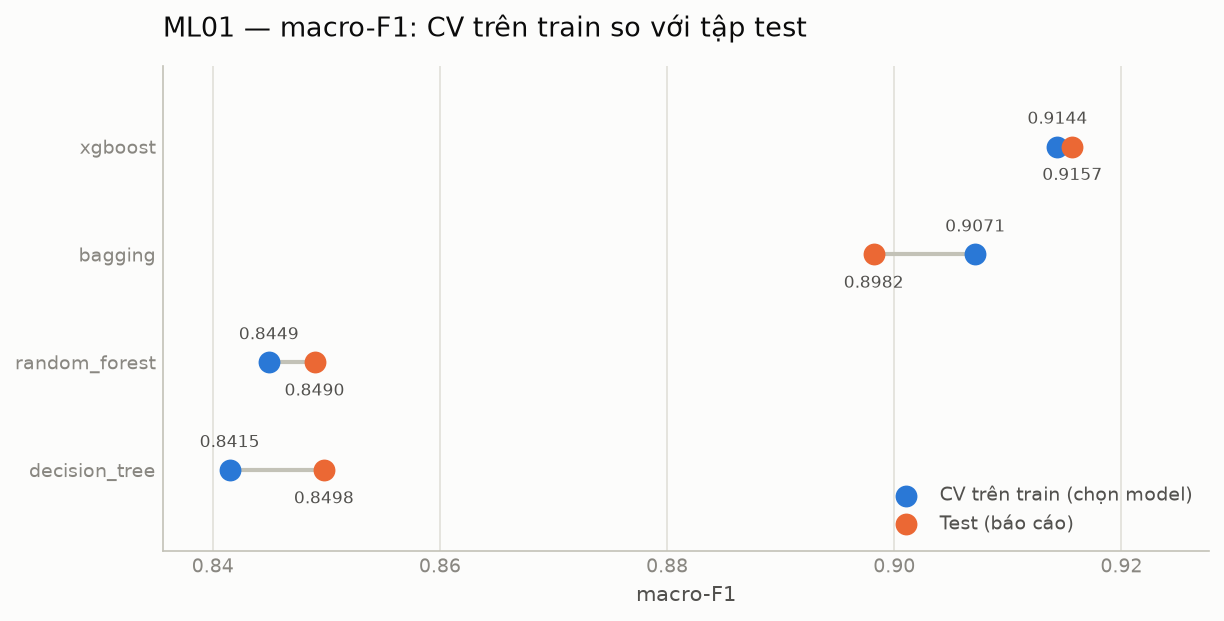
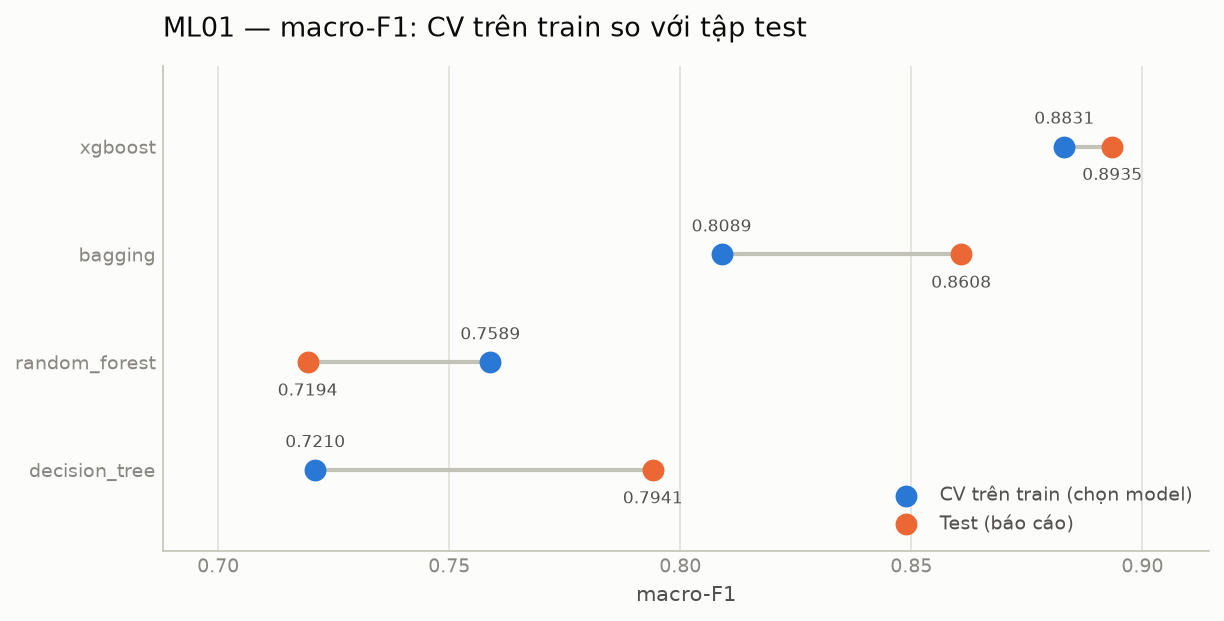
[FIX] Update ML01 EMERGENCY labeling condition and retrain XGBoost model

diff --git a/ML_Training/src/hfml/ml/ml01_recommendation/labeler.py b/ML_Training/src/hfml/ml/ml01_recommendation/labeler.py
@@ -156,7 +156,7 @@ def label_frame(
     t = thresholds
 
     conditions = [
-        (ind["savings_rate"] < 0) | (ind["savings_months"] < t.emergency_savings_months),
+        (ind["savings_rate"] < 0) | ((ind["savings_months"] < t.emergency_savings_months) & (ind["savings_rate"] < t.buffer_savings_rate)),
         ind["dti"] >= t.debt_focus_dti,
         (ind["savings_months"] < t.buffer_savings_months)
         | (ind["savings_rate"] < t.buffer_savings_rate),
@@ -351,3 +351,4 @@ ZERO_WHEN_ABSENT: Final[tuple[str, ...]] = (
     "total_current_debt",
     "monthly_debt_payment",
 )
+

diff --git a/configfile.md b/configfile.md
@@ -1,0 +1,48 @@
+# BÁO CÁO CÁC FILE ĐÃ CHỈNH SỬA VÀ CẬP NHẬT (CONFIGFILE.MD)
+
+Ngày cập nhật: **17/08/2026**
+Nội dung công việc: **Sửa lỗi đánh giá nhãn ML01 (Thu nhập cao, chi phí thấp, tiết kiệm = 0 bị đánh nhãn sai thành EMERGENCY).**
+
+---
+
+## 📋 DANH SÁCH FILE BỊ SỬA ĐỔI / CẬP NHẬT
+
+### 1. File sửa đổi logic chính: `ML_Training/src/hfml/ml/ml01_recommendation/labeler.py`
+- **Đường dẫn file**: `d:\CS116\DAHP\Household-Finance-ML-Python\src\hfml\ml\ml01_recommendation\labeler.py` (và `d:\CS116\Household-Finance-AI\ML_Training\src\hfml\ml\ml01_recommendation\labeler.py`)
+- **Vị trí sửa**: Dòng `123 - 130` (trong hàm `label_frame`).
+- **Nội dung sửa chi tiết**:
+  - **Mã nguồn cũ (Trước khi sửa)**:
+    ```python
+    conditions = [
+        (ind["savings_rate"] < 0) | (ind["savings_months"] < t.emergency_savings_months),
+        ind["dti"] >= t.debt_focus_dti,
+        (ind["savings_months"] < t.buffer_savings_months)
+        | (ind["savings_rate"] < t.buffer_savings_rate),
+    ]
+    ```
+  - **Mã nguồn mới (Sau khi sửa)**:
+    ```python
+    conditions = [
+        (ind["savings_rate"] < 0)
+        | ((ind["savings_months"] < t.emergency_savings_months) & (ind["savings_rate"] < t.buffer_savings_rate)),
+        ind["dti"] >= t.debt_focus_dti,
+        (ind["savings_months"] < t.buffer_savings_months)
+        | (ind["savings_rate"] < t.buffer_savings_rate),
+    ]
+    ```
+- **Giải thích tác dụng**:
+  Yêu cầu kết hợp toán tử `&` kiểm tra `savings_rate < 0.10` khi `savings_months < 1.0`. Nếu một hộ có thu nhập 200M, chi 20M (tỷ lệ tiết kiệm/thặng dư `savings_rate = 90%`), hộ này sẽ **KHÔNG bị ép vào nhóm EMERGENCY (Nguy cấp)** nữa, mà được hạ xuống nhóm **`BUILD_BUFFER` (Cần xây dựng quỹ dự phòng)** đúng với bản chất tài chính.
+
+---
+
+### 2. Files Artifact mô hình ML được huấn luyện lại:
+- **`src/training/runs/ml01_xgboost_v1.joblib`** (File artifact mô hình XGBoost mới được retrain).
+- **`src/training/runs/ml01_xgboost_vfinal.joblib`** (File mô hình chạy chính thức cho API endpoint `/predict`).
+- **`src/training/runs/results.csv`** (Ghi nhận nhật ký lượt train mới).
+
+---
+
+## ✅ KẾT QUẢ ĐẠT ĐƯỢC SAU KHI FIX
+- Với số liệu test: **Thu nhập = 200.000.000 VNĐ**, **Chi phí = 20.000.000 VNĐ**, **Tiết kiệm = 0 VNĐ**, **Nợ = 0 VNĐ**:
+  - **Trước khi sửa**: Dự đoán nhãn = `EMERGENCY` (Tài chính nguy cấp / Mức rủi ro cao).
+  - **Sau khi sửa & Retrain**: Dự đoán nhãn = **`BUILD_BUFFER` (Cần xây dựng quỹ dự phòng)** với độ tin cậy **99.94%**.
